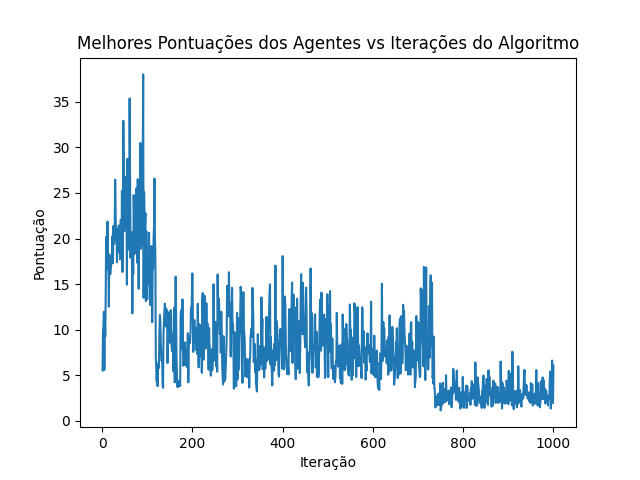
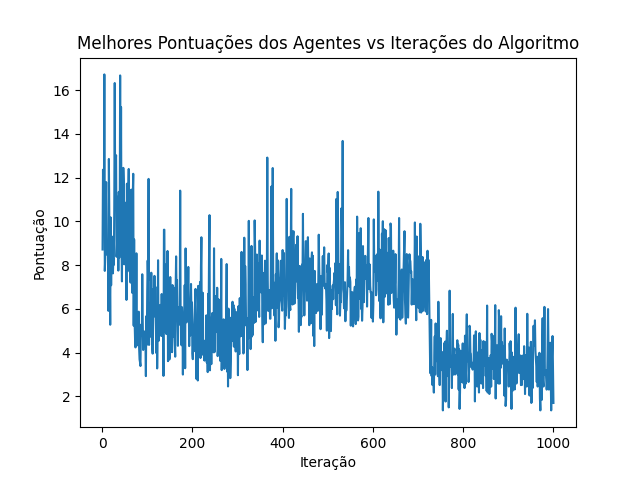
fix: Mudanças feitas, mas algoritmo continua horrível

diff --git a/batfly_algo.py b/batfly_algo.py
@@ -39,15 +39,27 @@ class BatFlyAlgorithm:
         self.best = self.population[0].copy()
         self.iteration = 0
         self.r0 = np.copy(self.r)
+        self.A0 = np.copy(self.A)
     
     def _inicialize_bat_population(self) -> np.ndarray:
         return np.random.uniform(-1, 1, (self.population_size, self.gene_length))
     
     def _update_frequencies(self):
+        """
+        Faz o update das frequências.
+        """
+        
+        # Gerando n valores beta aleatórios para atualizar a frequência de todos os morcegos
         beta = np.random.rand(self.population_size)
+        
+        # Atualizando as frequências
         self.frequencies = self.f_min + (self.f_max - self.f_min) * beta
     
     def _move_bats(self):
+        """
+        Faz o update das frequências, das velocidades e posições dos morcegos.
+        """
+        
         # Atualizando frequências (Equação 2)
         self._update_frequencies()
         freq = self.frequencies[:, np.newaxis]  # shape (N, 1)
@@ -55,19 +67,28 @@ class BatFlyAlgorithm:
         # Atualizando velocidade (Equação 3)
         self.velocities += (self.population - self.best) * freq
         
-        # Definindo limite para a velocidade do morcego
-        max_velocity = 50
-        self.velocities = np.clip(self.velocities, -max_velocity, max_velocity)
-        
         # Atualizando posições dos morcegos (Equação 4)
         self.population += self.velocities
-        self.population = np.clip(self.population, -100, 100)
     
     def _local_search(self) -> np.ndarray:
+        """
+        Função responsável por gerar uma nova solução local próxima da melhor.
+
+        Returns:
+            new_solution (np.ndarray): Nova solução próxima a melhor.
+        """
+        # Gerando epsilon aleatório entre [-1, 1] para cada morcego
         epsilon = np.random.uniform(-1, 1, self.gene_length)
-        return self.best + (epsilon*np.mean(self.A))
+        
+        # Nova solução próxima ao melhor
+        new_solution = self.best + (epsilon*np.mean(self.A))
+        
+        return new_solution
     
     def evolve(self, fitness_function, parallel=False) -> tuple[np.ndarray, float]:
+        # Movendo os morcegos
+        self._move_bats()
+        
         # Primeiro, iremos pegar os resultados de cada um dos individuos da população
         if parallel:
             fitness_scores = np.array(fitness_function(self.population))
@@ -76,12 +97,8 @@ class BatFlyAlgorithm:
 
         # Extraindo o indivíduo com o melhor desempenho médio da população
         best_idx = np.argmax(fitness_scores)
-        
         self.best = self.population[best_idx].copy()    # Melhores pesos
         best_fitness = fitness_scores[best_idx]         # Melhor score
-        
-        # Movendo os morcegos
-        self._move_bats()
 
         # Atualizando população
         for i in range(self.population_size):
@@ -89,14 +106,13 @@ class BatFlyAlgorithm:
             # Obtendo a novo indivíduo da população
             if np.random.rand() > self.r[i]:
                 new_solution = self._local_search()
+                new_fitness = fitness_function(np.array([new_solution]))[0]
             else:
                 new_solution = self.population[i].copy()
-
-            # Obtendo a pontuação do novo indíviduo
-            new_fitness = fitness_function(np.array([new_solution]))[0]
-
+                new_fitness = fitness_scores[i]
+            
             # Verificando se a nova solução será aceita ou não
-            if (np.random.rand() < self.A[i]) and (new_fitness > fitness_scores[i]):
+            if (np.random.rand()*self.A0[i] < self.A[i]) and (new_fitness > fitness_scores[i]):
                 self.population[i]  = new_solution
                 self.A[i]          *= self.alpha
                 self.r[i]           = self.r0[i] * (1 - np.exp(-self.gamma*self.iteration))
@@ -107,7 +123,7 @@ class BatFlyAlgorithm:
 
         return self.best, best_fitness
     
-    def run_algorithm(self, game_fitness_function, max_iter : int = 1000, max_time : int = 12*60*60) -> tuple[np.ndarray, np.ndarray]:
+    def run_algorithm(self, game_fitness_function, max_iter : int = 1000, max_time : int = 12*60*60) -> tuple[np.ndarray, float, list]:
         # Inicializando variáveis
         best_weights_overall = None
         best_fitness_overall = -np.inf
@@ -135,7 +151,8 @@ class BatFlyAlgorithm:
                 np.save("best_weights.npy", best_weights_overall)
             
             end = time.time()
-            print(f"[{generation + 1}/{max_iter}] Iterations --> Best Fitness: {current_best_fitness.item():.2f}, Melhor Fitness Geral: {best_fitness_overall.item():.2f} ({end-start_generation:.2f} s | tempo total: {(time.time()-start)/3600:.2f} h) ------ Média Loudness: {np.mean(self.A)}")
+            print(f"[{generation + 1}/{max_iter}] Iterations --> Best Fitness: {current_best_fitness.item():.2f}, Melhor Fitness Geral: {best_fitness_overall.item():.2f} ({end-start_generation:.2f} s | tempo total: {(time.time()-start)/3600:.2f} h)")
+            # print(f"Mean Loudness: {np.mean(self.A):.4f} | Mean frequencia: {np.mean(self.frequencies):.4f} | Mean velocidade: {np.mean(self.velocities):.4f}")
             
             # Verificando se chegou ao limite de tempo do algoritmo
             if time.time() - start > max_time:
